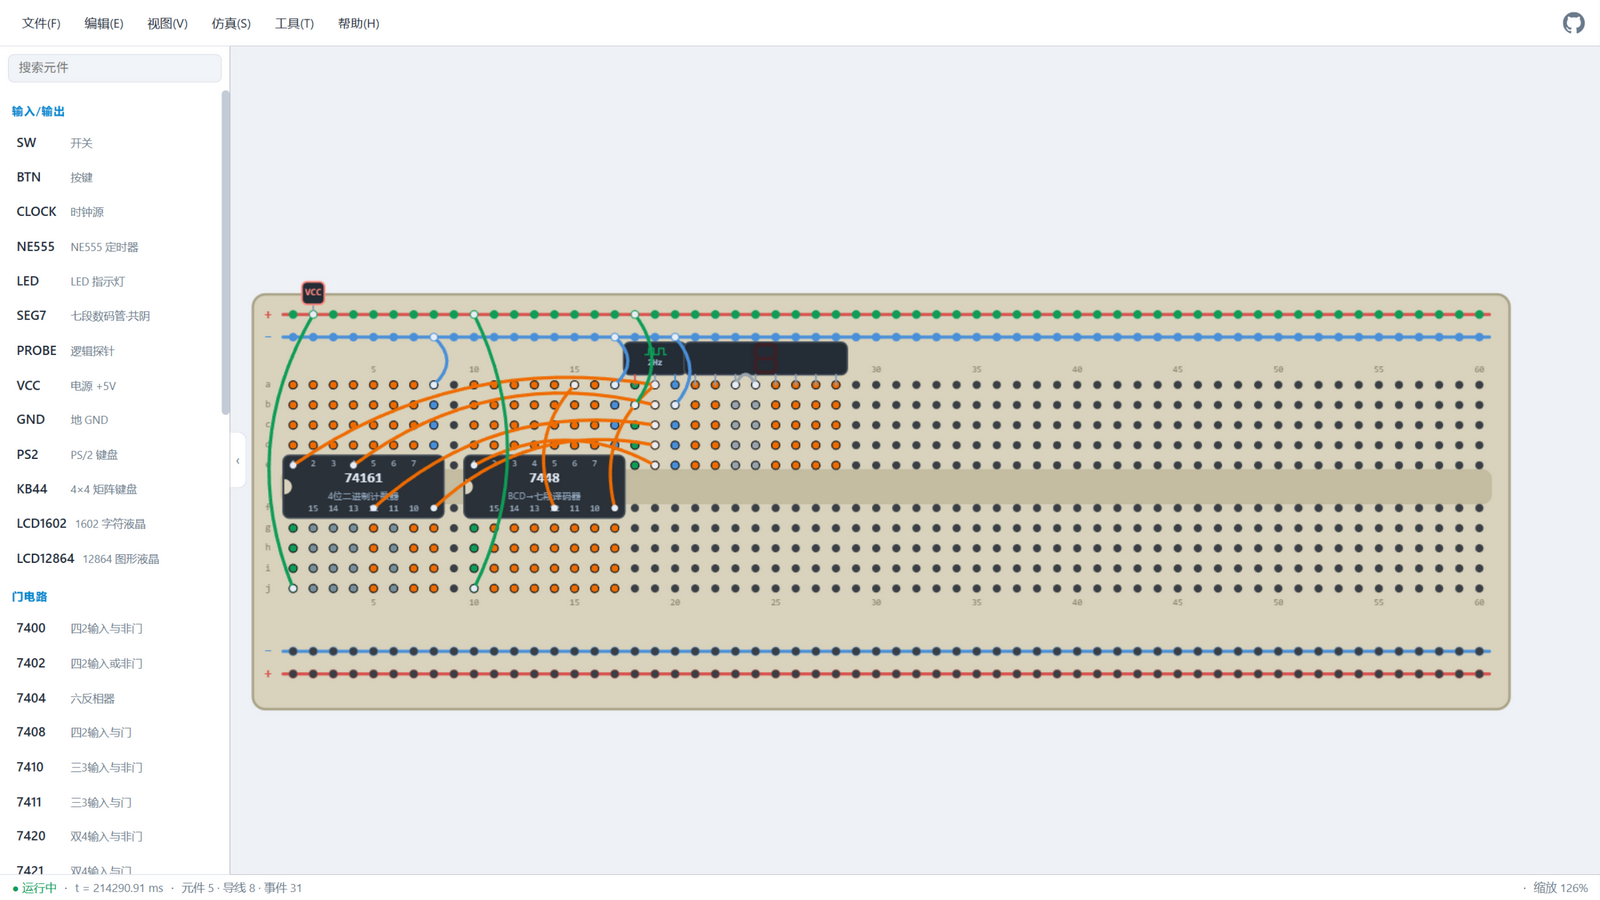
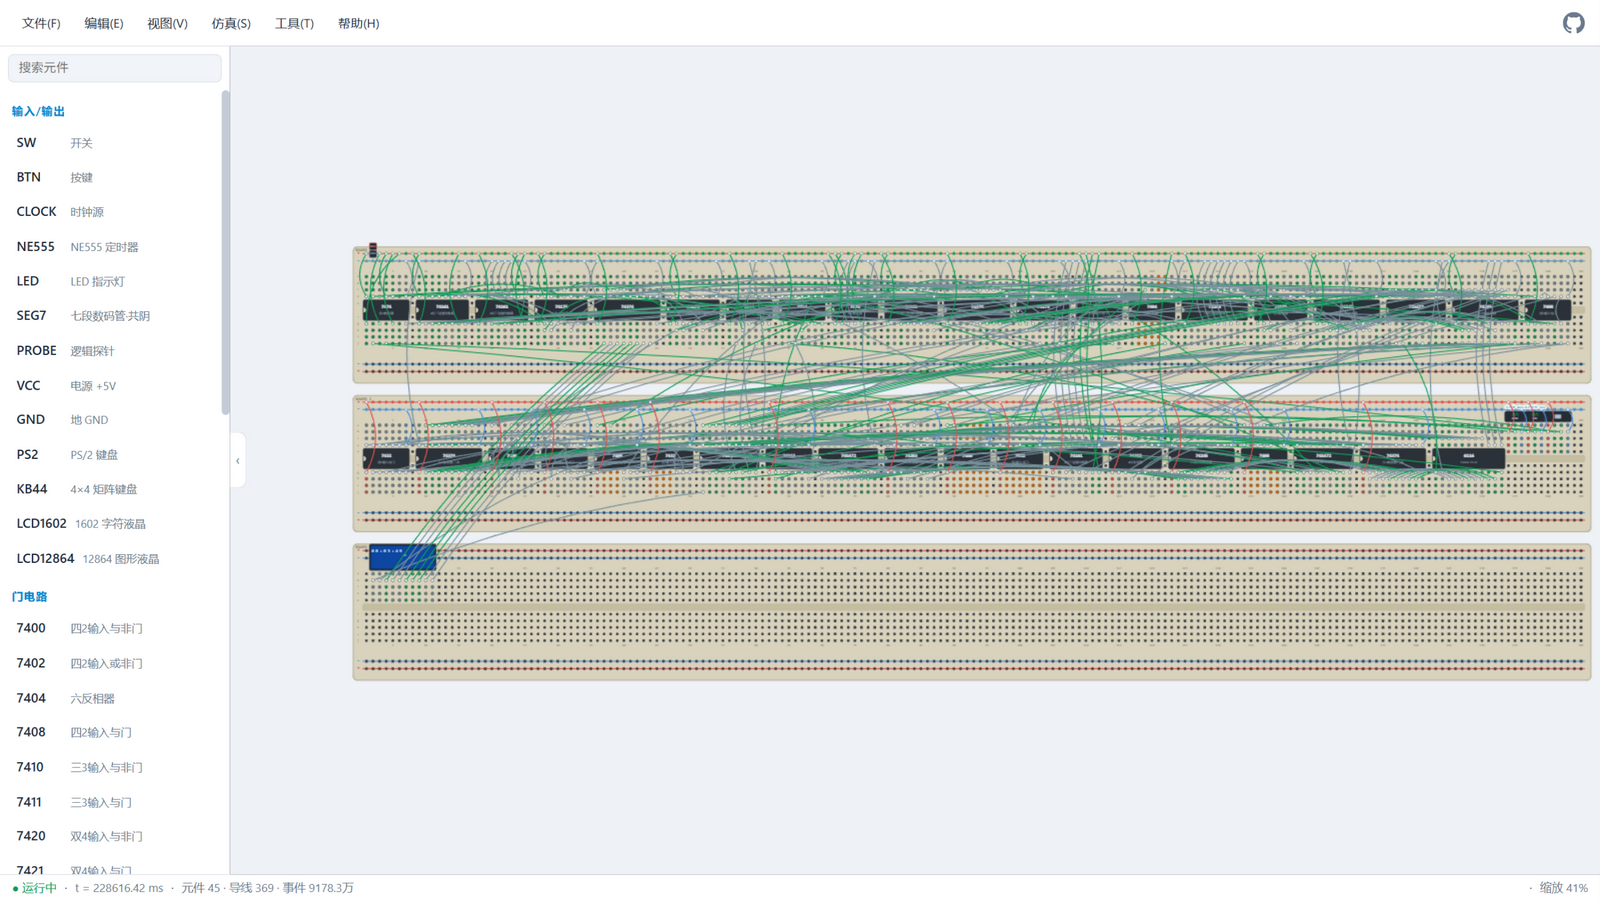
README 截图替换为 VM-8 CPU 时钟计算机面包板全景(45 芯片跨三块面包板, 1602 实时走时, 自动摆放+自动跳线) + 中英文说明同步 + i18n-en/breadboard 缓存版本号递增

diff --git a/index.html b/index.html
@@ -93,7 +93,7 @@
 </div>
 <input type="file" id="fileImport" accept=".json,application/json" hidden>
 <script src="js/i18n.js?v=61"></script>
-<script src="js/i18n-en.js?v=64"></script>
+<script src="js/i18n-en.js?v=65"></script>
 <script src="js/engine.js?v=61"></script>
 <script src="js/chips.js?v=64"></script>
 <script src="js/chips/gates.js?v=64"></script>
@@ -101,7 +101,7 @@
 <script src="js/chips/interface.js?v=64"></script>
 <script src="js/chips/bus.js?v=64"></script>
 <script src="js/examples.js?v=62"></script>
-<script src="js/breadboard.js?v=64"></script>
+<script src="js/breadboard.js?v=65"></script>
 <script src="js/pcb.js?v=61"></script>
 <script src="js/easyeda.js?v=61"></script>
 <script src="js/dialog.js?v=64"></script>
@@ -109,7 +109,7 @@
 <script src="js/app/dialogs.js?v=64"></script>
 <script src="js/app/ps2.js?v=64"></script>
 <script src="js/app/schematic.js?v=66"></script>
-<script src="js/app/breadboard.js?v=65"></script>
+<script src="js/app/breadboard.js?v=66"></script>
 <script src="js/app/pcb.js?v=64"></script>
 <script src="js/app/library.js?v=64"></script>
 <script src="js/app/menus.js?v=65"></script>

diff --git a/README.en.md b/README.en.md
@@ -8,7 +8,7 @@ A pure front-end (zero-dependency) simulator for 74-series logic chip circuits, 
 - **🍞 Breadboard mode**: realistic breadboard view (60 columns, rows a–j, top & bottom power rails, 5 tied holes per column), **one-click auto-placement from the schematic with all jumper wires generated** (including power jumpers for every chip), per-hole/per-jumper editing (**at most one jumper per hole; holes occupied by chip pins can't take a jumper** — manual wiring enforces the same), **DIP chips only work once connected to the power rails**, circuit keeps simulating in real time
 - **🟩 PCB mode**: DIP footprint layout + ratsnest preview, **exports a PCB source file that EasyEDA (Standard edition) opens directly** — pads carry net names, so the ratsnest is there on open and you can run EasyEDA's auto-router right away; also exports a generic netlist JSON (for a future in-house router)
 
-![Breadboard mode: 7-segment counter (74161+7448) example, ✨one-click auto-place & jumper routing](docs/screenshot-breadboard.png)
+![Breadboard mode: VM-8 CPU clock computer example (45 chips across three breadboards, 1602 LCD showing the live clock), ✨one-click auto-place & jumper routing](docs/screenshot-breadboard.png)
 
 ## Run
 

diff --git a/README.md b/README.md
@@ -8,7 +8,7 @@
 - **🍞 面包板模式**：真实面包板视图（60 列、a–j 行、上下电源轨、每列 5 孔连通），**一键从原理图自动摆放元件并生成全部跳线**（含每颗芯片的供电跳线），跳线/孔位级编辑（**每孔至多一根跳线，芯片引脚占用的孔不可插线**，手动接线同样强制），**DIP 需接通电源轨才工作**，电路照常实时仿真
 - **🟩 PCB 模式**：DIP 封装布局 + 飞线预览，**导出立创EDA(标准版)可直接打开的 PCB 源文件**——焊盘自带网络名，打开即有飞线，可直接用立创EDA的自动布线；另可导出通用网表 JSON（供未来自有布线器）
 
-![面包板模式：数码管计数 (74161+7448) 示例，✨一键自动摆放并生成跳线](docs/screenshot-breadboard.png)
+![面包板模式：VM-8 CPU 时钟计算机示例（45 颗芯片跨三块面包板，1602 液晶实时走时），✨一键自动摆放并生成全部跳线](docs/screenshot-breadboard.png)
 
 ## 运行
 
